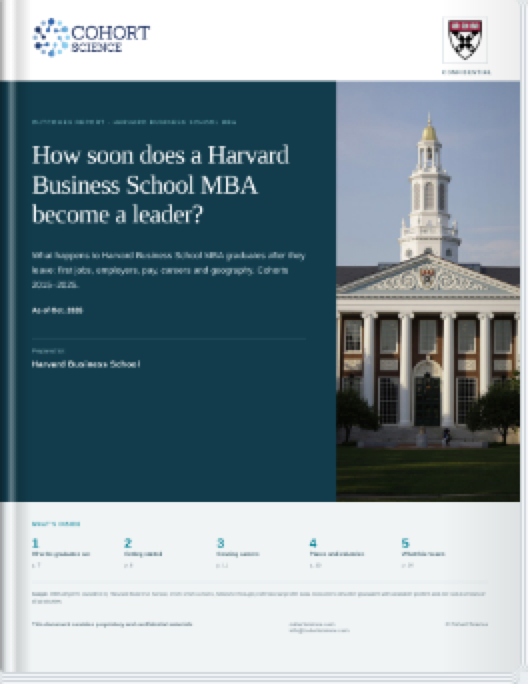
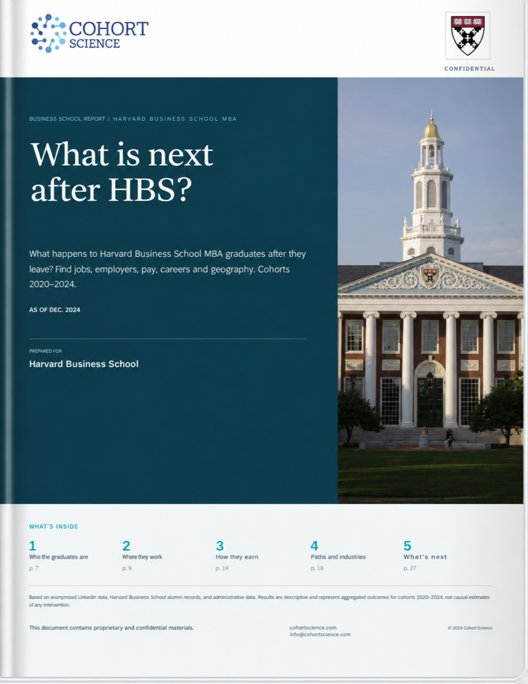
commit

diff --git a/education-outcomes.html b/education-outcomes.html
@@ -119,7 +119,6 @@
             <div class="outcome-module-control outcome-module-control--mobile">
               <label for="outcome-module-select">Analysis view</label>
               <select id="outcome-module-select">
-                <option value="#overview">Executive Overview</option>
                 <option value="#example-1">Career Progression</option>
                 <option value="#example-2">Graduate Profiles</option>
                 <option value="#example-3">Talent Origins</option>
@@ -143,7 +142,6 @@
           </div>
           <div class="outcome-workspace">
             <nav class="outcome-workspace-nav" aria-label="Choose an outcomes view">
-              <a href="#overview" data-insight-stat="7,754" data-insight-benchmark="Graduate profiles across three peer programs" data-insight-title="One evidence base for leadership decisions" data-insight-copy="The preview combines peer graduate cohorts with program-level career, salary and mobility views." data-insight-question="What evidence should institutional leaders see first?">Executive Overview</a>
               <a href="#example-1" data-insight-stat="2.1×" data-insight-benchmark="Manager share rises from 14% to 30%" data-insight-title="Career advancement becomes visible" data-insight-copy="Ladder Climbers more than double their manager-level representation within the five-year window." data-insight-question="Where are graduates progressing—and where do they stall?">Career Progression</a>
               <a href="#example-2" data-insight-stat="$117.5k" data-insight-benchmark="Maximum salary in the selected cluster" data-insight-title="Distinct graduate profiles reveal distinct outcomes" data-insight-copy="Working Students lead the selected view on both maximum salary and executive attainment." data-insight-question="Which graduate profiles produce distinct career patterns?">Graduate Profiles</a>
               <a href="#example-3" data-insight-stat="44.4%" data-insight-benchmark="From the two leading identified feeders in 2023" data-insight-title="Concentration reveals recruiting opportunity" data-insight-copy="Plano West and Coppell each contribute 22.2% of identified feeder records in the 2023 cohort." data-insight-question="Where is the strongest prospective-student pipeline?">Talent Origins</a>
@@ -156,36 +154,6 @@
             <div class="outcome-workspace-content">
               <div class="outcome-stage">
                 <div class="outcome-panel-stack">
-<article class="outcome-example outcome-overview" aria-labelledby="overview">
-  <header class="outcome-card-header">
-    <p class="workspace-context">Executive intelligence</p>
-    <h3 id="overview">Executive Overview</h3>
-  </header>
-  <p class="overview-intro">A connected view of how graduates move from education into work—and how their careers develop over time.</p>
-  <div class="overview-metrics" aria-label="Demonstration coverage">
-    <div><small>Peer benchmark</small><strong>7,754</strong><span>graduate profiles analyzed</span></div>
-    <div><small>Cohort analysis</small><strong>195</strong><span>graduates with dated jobs</span></div>
-    <div><small>Career horizon</small><strong>10</strong><span>post-graduation years</span></div>
-    <div><small>Coverage</small><strong>177</strong><span>institutions represented</span></div>
-  </div>
-  <div class="overview-grid">
-    <section>
-      <p class="overview-label">What leaders can answer</p>
-      <h4>Connect programs to real career outcomes.</h4>
-      <ul>
-        <li>Where graduates work, move and advance</li>
-        <li>How salary trajectories vary by cohort</li>
-        <li>Which employers and industries absorb talent</li>
-        <li>How outcomes compare with relevant peers</li>
-      </ul>
-    </section>
-    <section class="overview-callout">
-      <p class="overview-label">Built for high-stakes decisions</p>
-      <p>Translate complex professional-profile data into evidence that supports program review, enrollment strategy, employer engagement and executive communication.</p>
-      <a class="button" href="#example-1">Explore the analysis</a>
-    </section>
-  </div>
-</article>
 <article class="outcome-example" aria-labelledby="example-1">
   <header class="outcome-card-header">
     <p class="workspace-context">Career mobility analysis</p>
